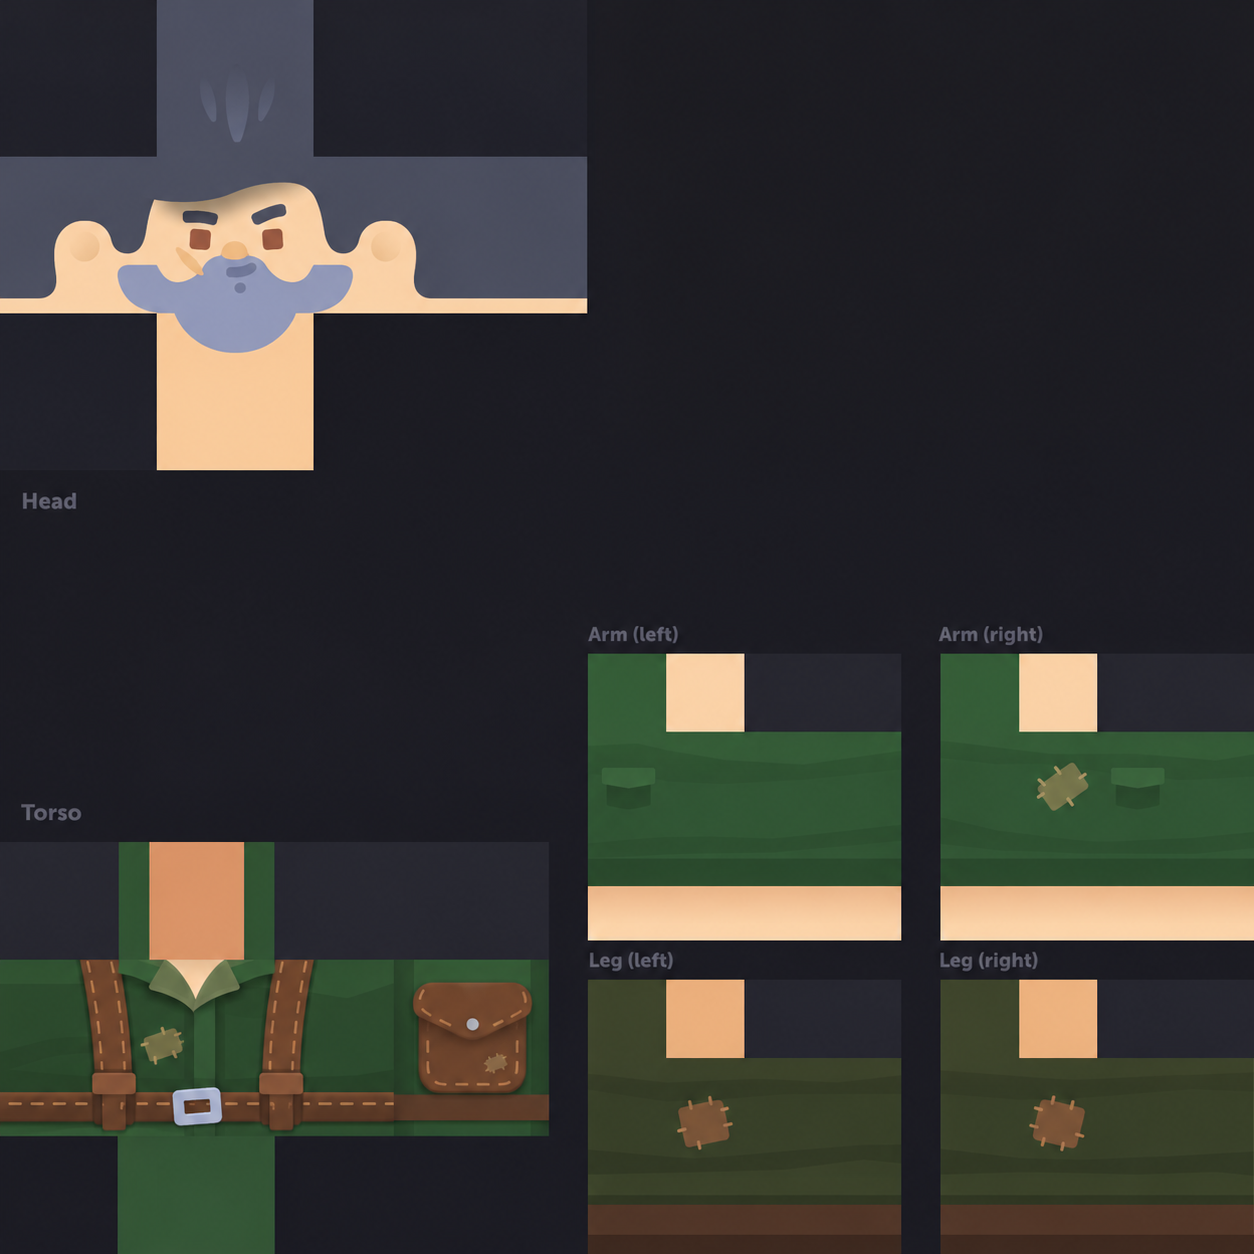
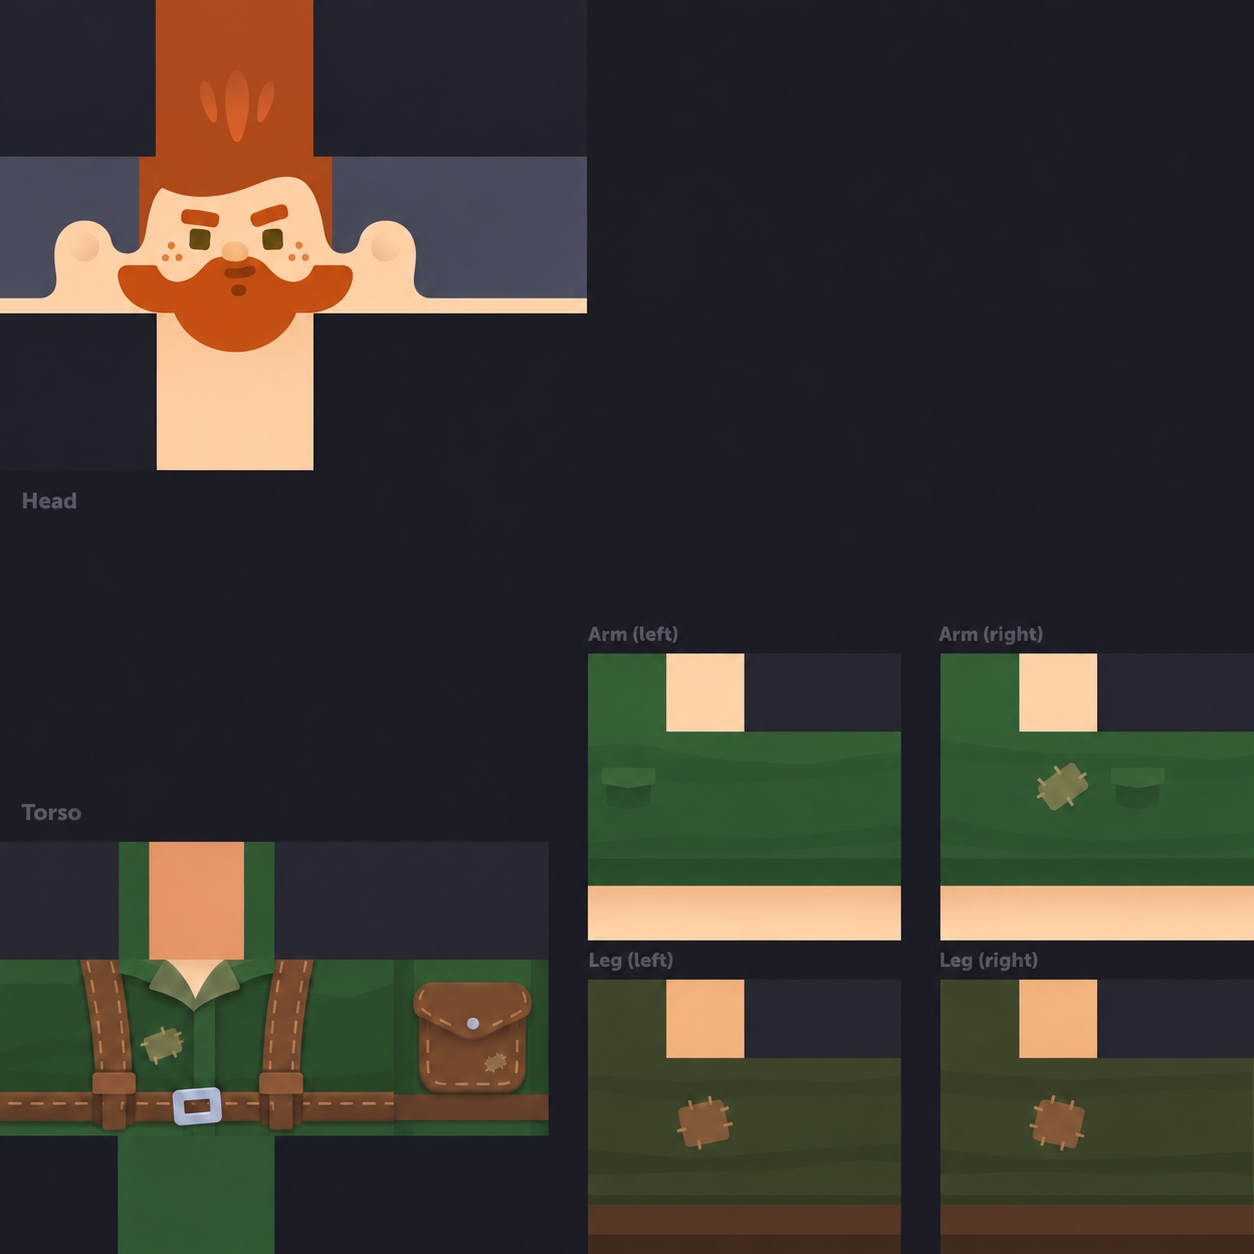
DB-ON-045 distinguish mechanic and hunter faces

Changed region(s): [[0.0933, 0.0, 0.2799, 0.2799]]

diff --git a/Docs/kanban/tasks/DB-ON-045.md b/Docs/kanban/tasks/DB-ON-045.md
@@ -29,3 +29,6 @@ ai: true
 
 
 07.11: реализованы два пробных производных UV-атласа Kenney — mechanic/navy и hunter/green-brown. Оригинал/модель/скелет/аниматор не менялись. Импорт512px+mips, общий материал на облик, без material-клонов на игрока. Найдены отрицательныеUV уFBX: нужен Repeat, Clamp давал тёмные участки; исправлено и проверено на3D. В аватар добавлен стабильный byte ProfessionSkin (0default/1mechanic/2hunter/unknown→original), ID обновляется с выбором профессии; материалы загружаются на устройстве. Сетевой protocol suffix skins1 отделяет несовместимые старые клиенты, SDK не менялся. Два настоящих Photon peers PASS: late join mechanic, смена hunter, fallback, animator и предмет в руке сохранены. PreviewScene рендер просмотрен: Docs/previews/ProfessionSkins.png (слева hunter, в центре mechanic, справа original). Editor memory textures350448+175672bytes; это не размер WebGL-архива. Прирост сборки НЕ измерен по запрету сборки, ручной вид/движение/руки в вебе ещё не приняты. Происхождение текстур: imagegen-редактирование original texture-a, новые siblingPNG. Далее владелец — позже оценить два облика в общем тесте; ИИ — поправить замечания, не делать все13 до выбора направления. Следующая задача по согласованному порядку — DB-ON-035 (ИИ).
+
+
+07.11 — по замечанию владельца «лица слишком похожие, остальное ок» переработаны лица: hunter — рыжие волосы/борода/брови и веснушки; mechanic — более тёмная кожа, тёмные волосы/усы, без большой бороды. Одежда визуально сохранена, гнёзда/код/материалы/сетевой протокол не менялись. Повторный PreviewScene render после импорта просмотрен, лица читаются различно; исходный персонаж справа сохранён для сравнения. Актуальное превью Docs/previews/ProfessionFaces.png. Без сборки/Play/повторного сетевого прогона: это правка текстур, runtime-схема не менялась. Далее владелец — оценить лица по превью; ИИ — учесть замечания и затем вернуться к новой пачке приоритетов. Статус in_review сохраняется.
